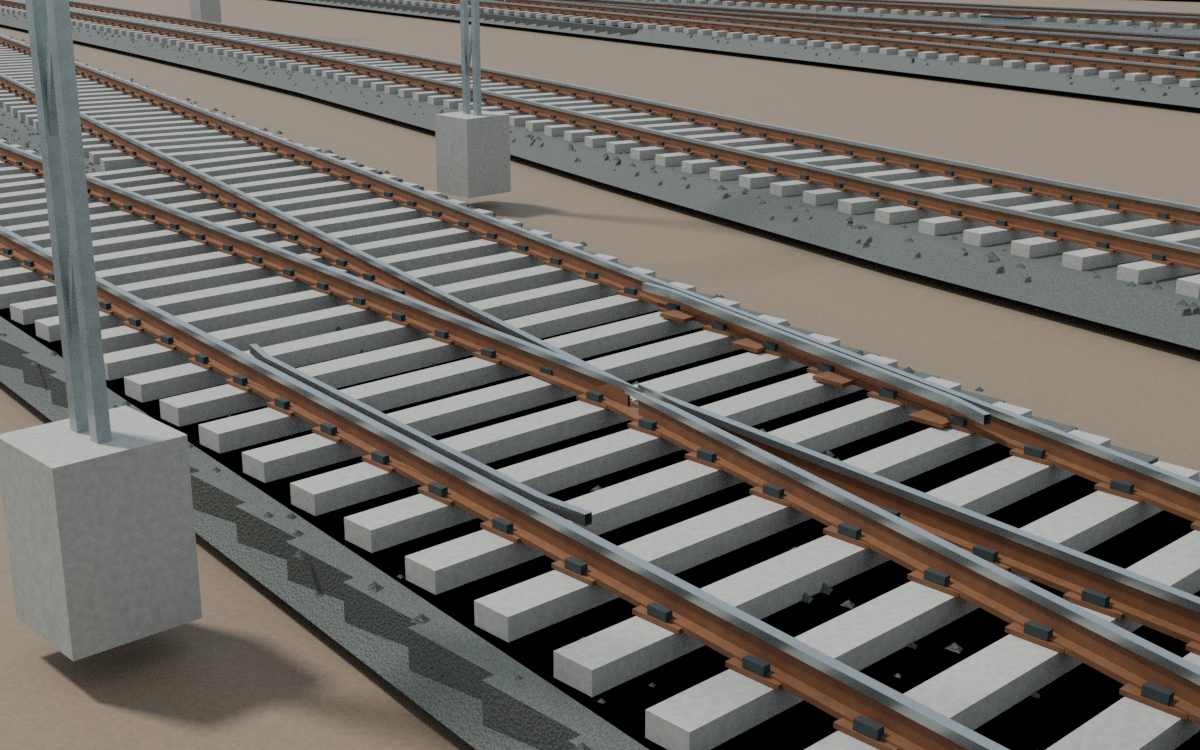
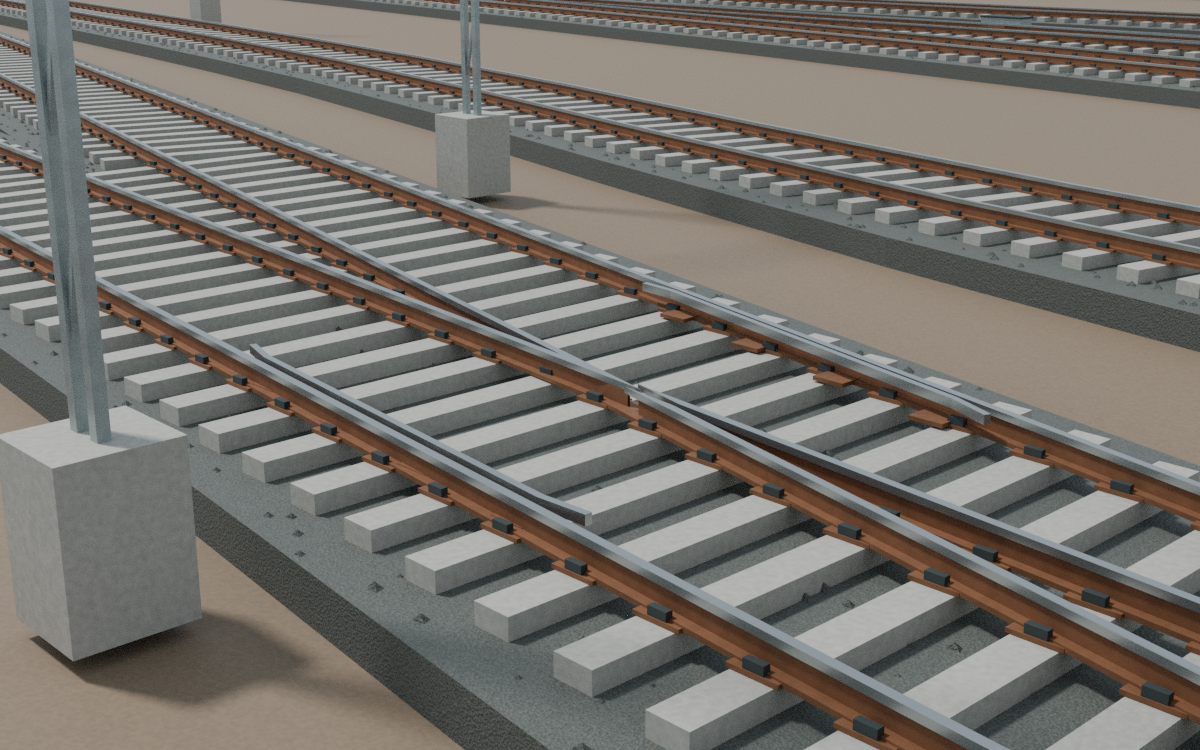
Preserve WIP station source milestone: gallery_refresh_1533

diff --git a/south_indian_stations_v02/review_gallery/README.md b/south_indian_stations_v02/review_gallery/README.md
@@ -16,6 +16,12 @@ Schematic coverage plan, not a Blender beauty render.46 mapped route segments ar
 
 [![TVC · full mapped yard coverage](tvc_labelled_yard.png)](tvc_labelled_yard.png)
 
+## NCJ · heritage facade and station
+
+Current corrected scene with historical facade appearance and mixed-date mapped yard. This is a visual reconstruction, not an as-built survey.
+
+[![NCJ · heritage facade and station](ncj_facade_station.png)](ncj_facade_station.png)
+
 ## NCJ · reconstructed ticket hall
 
 Detailed unchanged ticket-hall interior. Distant platform/OHE background predates the final engineering corrections; this is an earlier interior proof.
@@ -54,7 +60,7 @@ Accepted interim platform view. Source-scene SHA256 is in its review sidecar; fi
 
 ## ERS · physical turnout and frog
 
-Accepted rail-head/flangeway geometry. Ballast coplanarity/inward-strip-normal artifacts remain visible in this interim image; corrected source is awaiting bake. This is not a finished visual.
+Reviewed corrected rail-head, flangeway and ballast-bed geometry. This replaces the earlier frame with ballast artifacts. Generic mixed-date visual reconstruction; not engineering certification. Final package/export still pending.
 
 [![ERS · physical turnout and frog](ers_turnout_frog.png)](ers_turnout_frog.png)
 
@@ -66,6 +72,6 @@ Labelled schematic coverage plan, not a final Blender yard render. Current-map g
 
 ## Revisions and rights
 
-[TVC booking source hash](tvc_booking_hall_provenance.json) · [NCJ render revisions](ncj_render_provenance.json) · [ERS ticket hall](ers_ticket_hall_review.json) · [ERS platform](ers_platform_concourse_review.json) · [ERS turnout](ers_turnout_frog_review.json).
+[TVC booking source hash](tvc_booking_hall_provenance.json) · [NCJ render revisions](ncj_render_provenance.json) · [NCJ pointwork source lineage](ncj_proof_source_lineage.json) · [ERS ticket hall](ers_ticket_hall_review.json) · [ERS platform](ers_platform_concourse_review.json) · [ERS turnout](ers_turnout_frog_review.json) · [Corrected ERS proof lineage](ers_turnout_frog_proof.json).
 
 Yard plans use OpenStreetMap-derived data: © OpenStreetMap contributors, [copyright and ODbL information](https://www.openstreetmap.org/copyright). No new licence is granted for generated assets. Source notices remain applicable.
